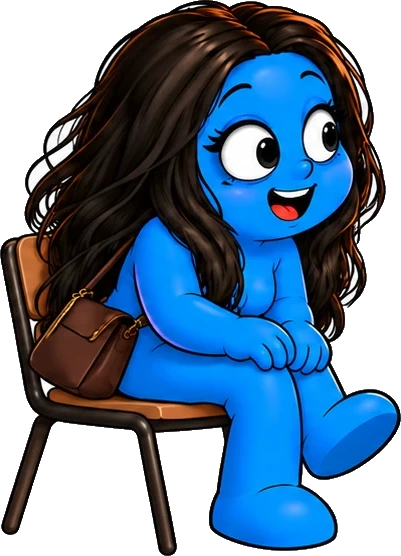
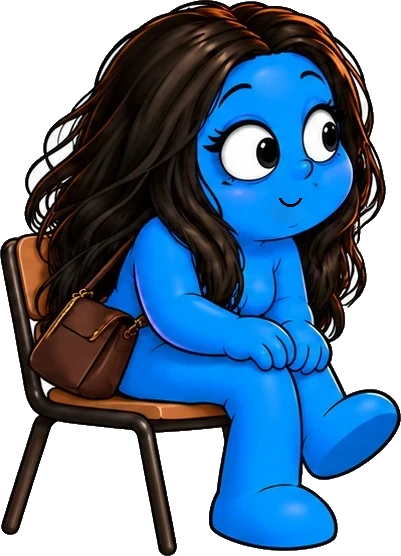
Bocas que se mueven: versión cerrada de las poses sentado con la boca abierta, boca abierta dibujada para el Jefe malo, y el sketch usa poses con boca en todas las frases
Claude-Session: https://claude.ai/code/session_01JMuA9ngbhrTgayxwJt3uwf

Changed region(s): [[0.6584, 0.3363, 0.808, 0.3975]]

diff --git a/tests/sketch-cafe.test.ts b/tests/sketch-cafe.test.ts
@@ -12,3 +12,13 @@ import alq from "@/data/sketch-03-alquiler.json";
 it("«Un par de añitos» monta sin avisos", () => {
   expect(compileScript(alq as never, catalog).issues).toEqual([]);
 });
+
+it("en «Un par de añitos» todas las frases se dicen con una pose que mueve la boca", () => {
+  const take = compileScript(alq as never, catalog).project!.takes[0];
+  const chars = new Map(take.actors.map((a) => [a.uid, a.characterId]));
+  for (const d of take.events.filter((e) => e.track === "dialogue" && e.actorUid)) {
+    const body = take.events.filter((e) => e.track === "body" && e.actorUid === d.actorUid && "poseId" in e && e.start <= d.start + 0.01).sort((a, b) => b.start - a.start)[0] as { poseId?: string } | undefined;
+    const pose = catalog.characters.find((c) => c.id === chars.get(d.actorUid!))!.poses.find((p) => p.id === body?.poseId);
+    expect(pose?.talkSrc, `${d.actorUid}: ${(d as { text: string }).text}`).toBeTruthy();
+  }
+});

diff --git a/tools/andar/cerrar_boca.py b/tools/andar/cerrar_boca.py
@@ -1,0 +1,52 @@
+"""Para poses con la boca ABIERTA (lengua roja visible): genera la versión con la boca CERRADA.
+La cerrada pasa a ser la imagen normal (src) y la abierta la de hablar (talkSrc) → la boca se mueve al hablar.
+Uso: python3 tools/andar/cerrar_boca.py <png_entrada> <png_salida_cerrada>  (imprime OK o NO)"""
+import sys, numpy as np, cv2
+from PIL import Image, ImageDraw
+from scipy import ndimage
+from scipy.interpolate import griddata
+src, dst = sys.argv[1], sys.argv[2]
+a = np.array(Image.open(src).convert('RGBA')); rgb = a[..., :3].astype(int); al = a[..., 3] > 128
+H, W = al.shape
+ys, _ = np.nonzero(al); top = ys.min()
+red = (rgb[..., 0] > 190) & (rgb[..., 1] < 110) & (rgb[..., 2] < 120) & (rgb[..., 0] - rgb[..., 1] > 110) & al
+red[int(top + 0.5 * (ys.max() - top)):] = False
+red = ndimage.binary_opening(red, iterations=1)
+dark = ndimage.binary_dilation((rgb.max(-1) < 70) & al, iterations=6)
+lab0, n0 = ndimage.label(red)
+red = np.isin(lab0, [j for j in range(1, n0 + 1) if ((lab0 == j) & dark).sum() > 0.3 * (lab0 == j).sum()])
+lab, n = ndimage.label(red)
+if not n: print('NO'); sys.exit(0)
+s = ndimage.sum(red, lab, range(1, n + 1)); t = lab == (np.argmax(s) + 1)
+if s.max() < 40: print('NO'); sys.exit(0)
+ty, tx = np.nonzero(t); cy, cx = int(ty.mean()), int(tx.mean())
+mx = rgb.max(-1)
+cand = (red | (mx < 42) | (rgb.min(-1) > 185) | ((rgb[..., 0] > 40) & (rgb[..., 1] < 0.33 * rgb[..., 0]) & (rgb[..., 2] < 0.7 * rgb[..., 0] + 20))) & al
+box = np.zeros_like(cand); r = max(30, int(np.sqrt(s.max()) * 2.6))
+box[max(0, cy - int(r * 0.75)):cy + r // 2 + 6, max(0, cx - r):cx + r] = True
+lab2, _ = ndimage.label(cand & box)
+keep = ndimage.binary_fill_holes(np.isin(lab2, np.unique(lab2[t])[np.unique(lab2[t]) > 0]))
+ky, kx = np.nonzero(keep)
+hull = cv2.convexHull(np.stack([kx, ky], 1).astype(np.int32))
+hm = np.zeros(al.shape, np.uint8); cv2.fillPoly(hm, [hull], 1)
+mask = ndimage.binary_dilation(hm.astype(bool), iterations=5) & al
+ring = ndimage.binary_dilation(mask, iterations=9) & ~mask & al & (mx >= 55)
+ry, rx = np.nonzero(ring); yy, xx = np.nonzero(mask)
+out = a.astype(float)
+for ch in range(3):
+    out[yy, xx, ch] = griddata((ry, rx), rgb[ry, rx, ch], (yy, xx), method='linear', fill_value=float(np.median(rgb[ry, rx, ch])))
+rr = rgb[ry, rx]
+beard = np.mean((rr[:, 0] > rr[:, 2] + 20) & (rr[:, 2] < 120)) > 0.5
+if beard:
+    br = rr[(rr[:, 0] > rr[:, 2] + 20) & (rr[:, 2] < 120)]
+    rng = np.random.default_rng(1)
+    out[yy, xx, :3] = br[rng.integers(0, len(br), len(yy))]
+    out[..., :3] = np.where(mask[..., None], cv2.GaussianBlur(out[..., :3], (5, 5), 0), out[..., :3])
+sm = cv2.GaussianBlur(out[..., :3], (3, 3), 0) if beard else cv2.GaussianBlur(out[..., :3], (5, 5), 0)
+soft = cv2.GaussianBlur(mask.astype(np.float32), (5, 5), 0)[..., None]
+out[..., :3] = a[..., :3] * (1 - soft) + sm * soft
+o = Image.fromarray(out.astype(np.uint8)); d = ImageDraw.Draw(o)
+x0, x1, y0, y1 = kx.min(), kx.max(), ky.min(), ky.max()
+w = (x1 - x0) * 0.55; c0 = (x0 + x1) / 2; ym = y0 + (y1 - y0) * 0.3
+d.arc([c0 - w / 2, ym - 14, c0 + w / 2, ym + 10], 18, 162, fill=(40, 22, 12, 255) if beard else (8, 8, 25, 255), width=max(3, int(W / 110)))
+o.save(dst); print('OK', x0, x1, y0, y1)

diff --git a/docs/SEGUIR_AQUI.md b/docs/SEGUIR_AQUI.md
@@ -71,3 +71,4 @@ Orden: 1A fondo panorámico vacío (entrada, mesas, barra, sofás; suelo despeja
 - Sketch alquileres (final 1, Jefe con cara de malo): instaladas tiras sentado nuevas: jefe sentado_triste_n1..4, reynaldo sentado_legal1..4, sister sentada_preocupa1..4, barbas sentado_indignado1..4, usu sentado_loco1..4 (+ animaciones triste / explica la ley / indignado / carcajada). Tira 2 instalada: jefe sentado_drama1..4, reynaldo sentado_alarma1..4, sister sentada_protesta1..4, barbas sentado_comenta1..4, usu sentado_escucha1..4 (+ animaciones cuenta su drama / protesta / comenta). Faltan: Jefe «cara de malo» y la tira «silencio» de todos. install_sentados.py ahora recorta con cut_extras --sin-sombra.
 - Sketch «Un par de añitos» montado: src/data/sketch-03-alquiler.json (botón 🏠 en Proyectos). Jefe cara de malo: sentado_malo1..4 (+ animación «cara de malo»); silencio: sentado_silencio1..4 para los 4 restantes.
 - Fondo nuevo bg_cafeteria_barra (vertical, recorte central del fondo apaisado de la barra; el original ancho en backgrounds/panoramicas/cafeteria_barra_ancha.webp). «Un par de añitos» usa este fondo.
+- Bocas de las poses sentado nuevas: tools/andar/cerrar_boca.py crea la versión cerrada de las poses con la boca abierta (la abierta pasa a *_boca.webp = talkSrc). Jefe malo1/malo2: boca abierta dibujada a mano (polígono). Test: en «Un par de añitos» todas las frases usan pose con boca.
